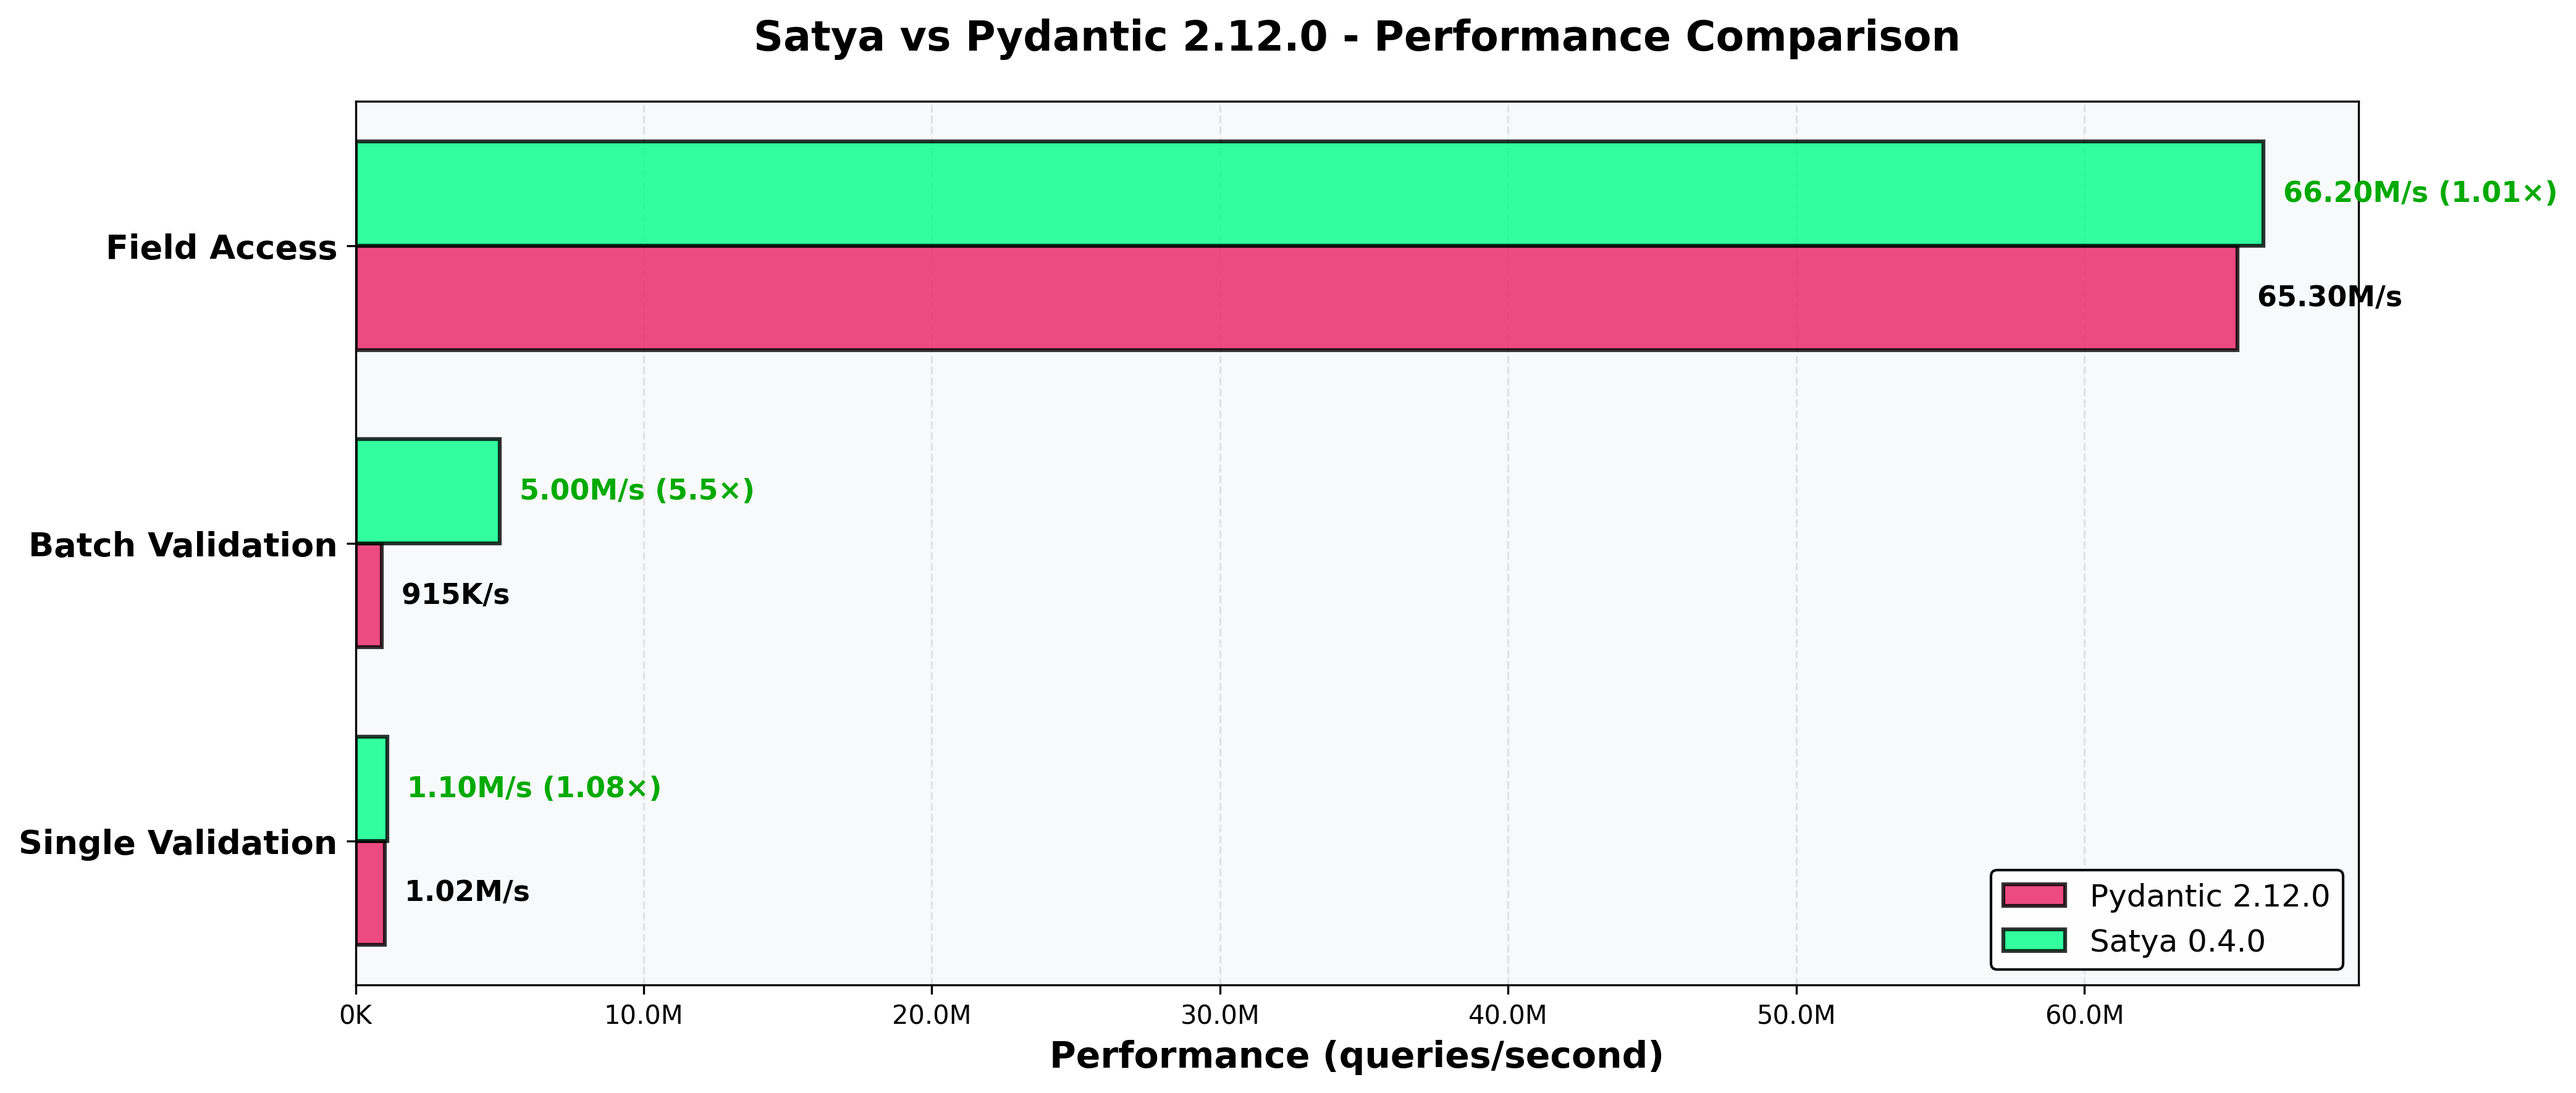
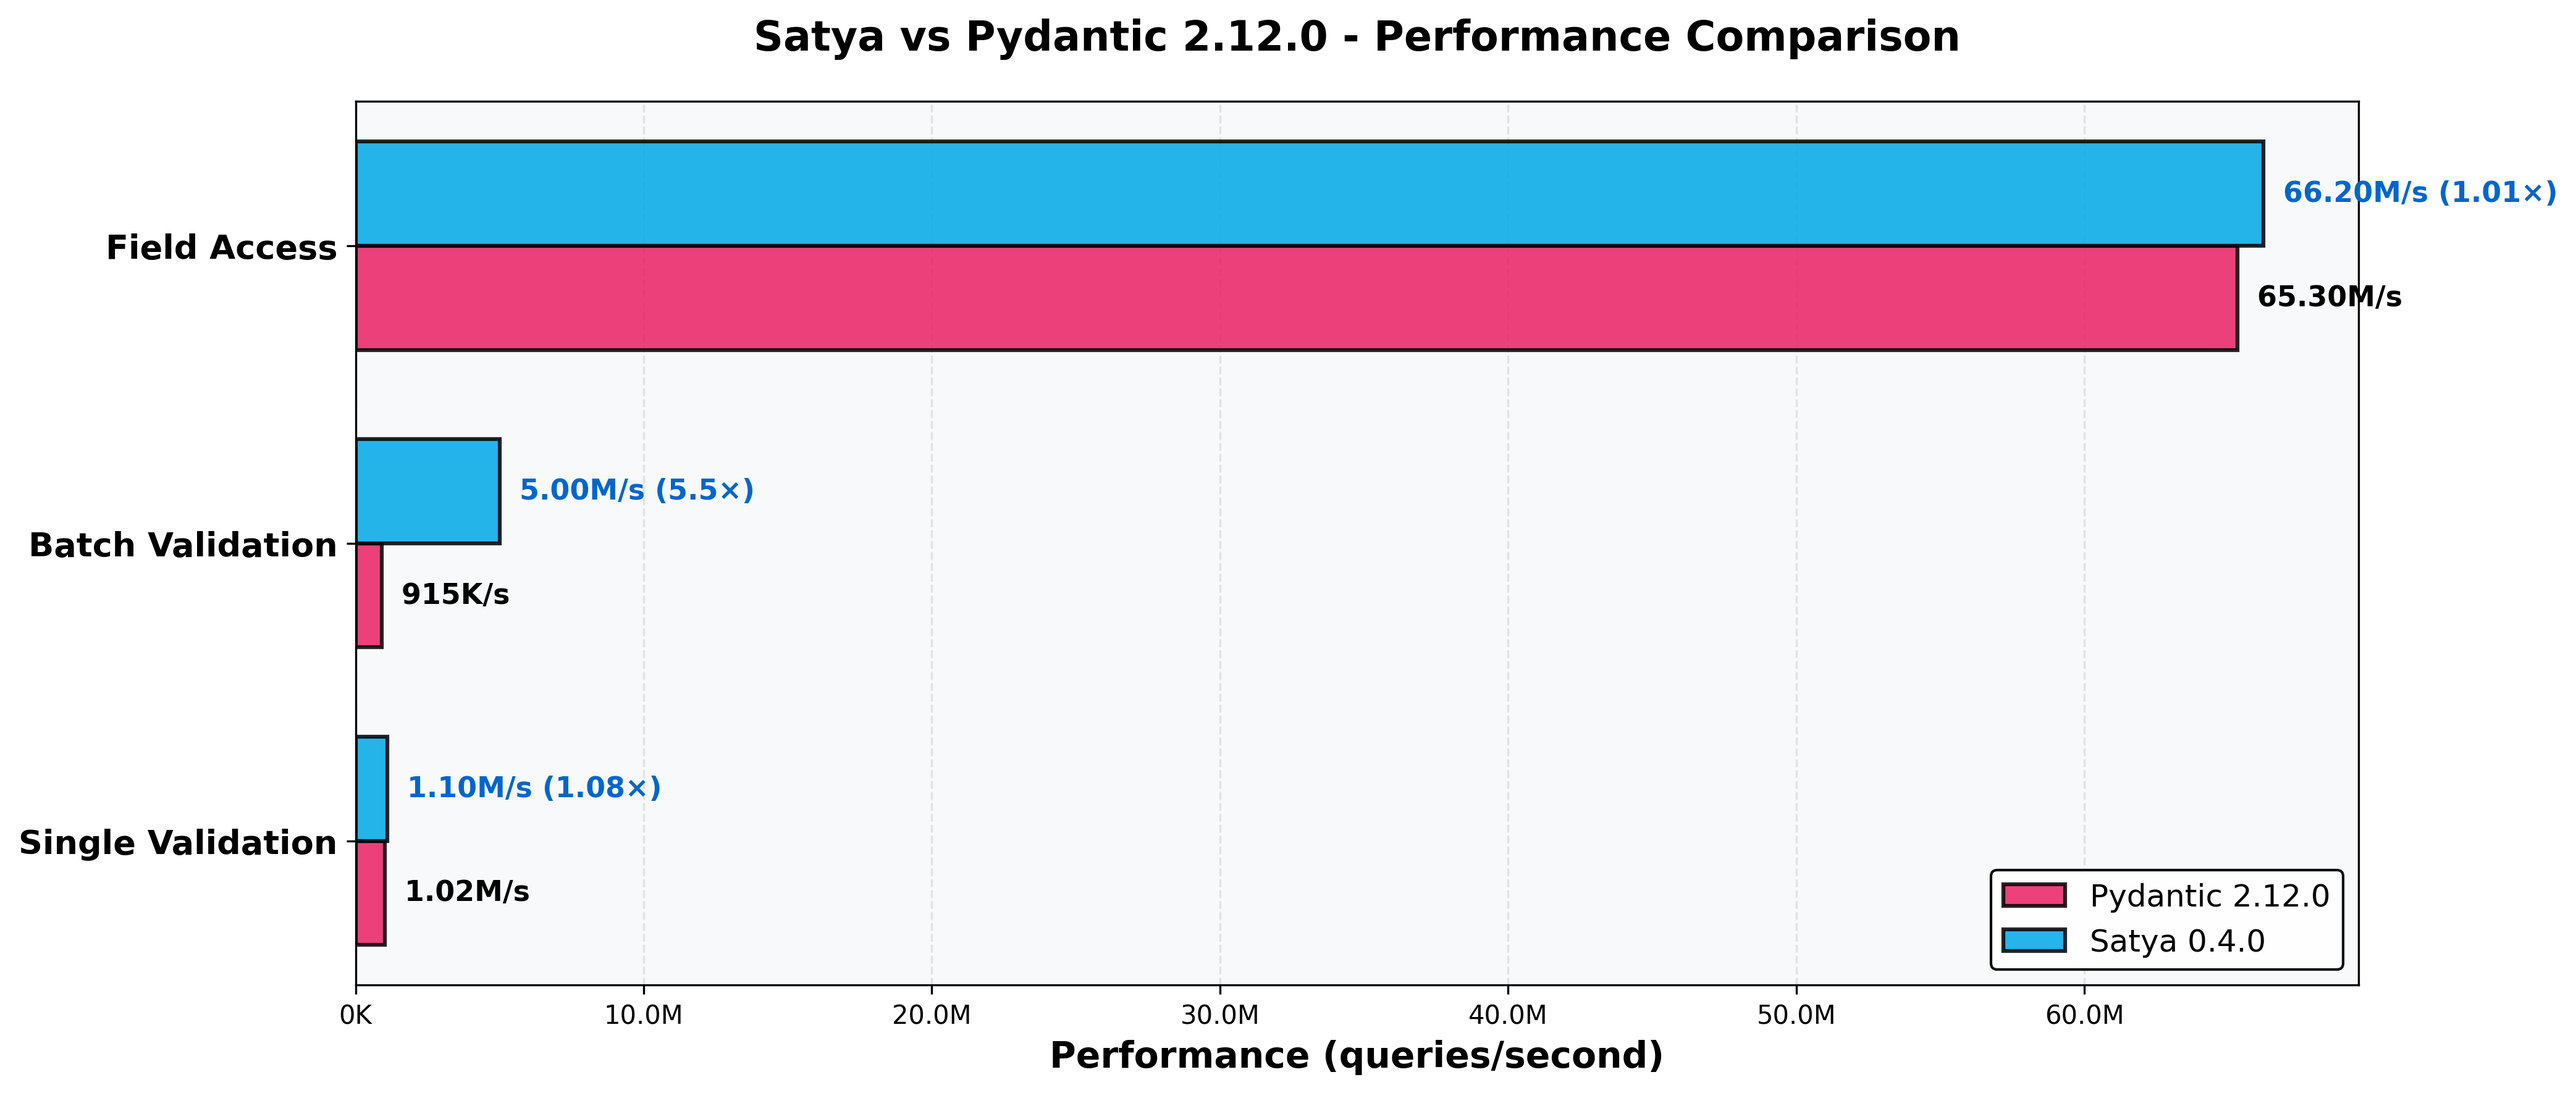
docs: Add professional horizontal performance diagram with Satya blue branding

diff --git a/benchmarks/create_simple_perf_diagram.py b/benchmarks/create_simple_perf_diagram.py
@@ -25,11 +25,11 @@ ax.set_facecolor('#f8f9fa')
 y_pos = np.arange(len(metrics))
 bar_height = 0.35
 
-# Create bars
+# Create bars - Pydantic pink/red, Satya blue/cyan (matching logo)
 bars_pydantic = ax.barh(y_pos - bar_height/2, pydantic_perf, bar_height, 
-                        label='Pydantic 2.12.0', color='#E92063', alpha=0.8, edgecolor='black', linewidth=1.5)
+                        label='Pydantic 2.12.0', color='#E92063', alpha=0.85, edgecolor='black', linewidth=1.5)
 bars_satya = ax.barh(y_pos + bar_height/2, satya_perf, bar_height,
-                     label='Satya 0.4.0', color='#00FF88', alpha=0.8, edgecolor='black', linewidth=1.5)
+                     label='Satya 0.4.0', color='#00A8E8', alpha=0.85, edgecolor='black', linewidth=1.5)
 
 # Customize
 ax.set_yticks(y_pos)
@@ -55,7 +55,7 @@ for i, (bar_p, bar_s) in enumerate(zip(bars_pydantic, bars_satya)):
     speedup_text = f'{speedups[i]:.2f}×' if speedups[i] < 2 else f'{speedups[i]:.1f}×'
     ax.text(width_s, bar_s.get_y() + bar_s.get_height()/2,
             f'  {label_s} ({speedup_text})', ha='left', va='center', 
-            fontsize=11, fontweight='bold', color='#00AA00')
+            fontsize=11, fontweight='bold', color='#0066CC')
 
 # Grid
 ax.grid(axis='x', alpha=0.3, linestyle='--', linewidth=0.8)
